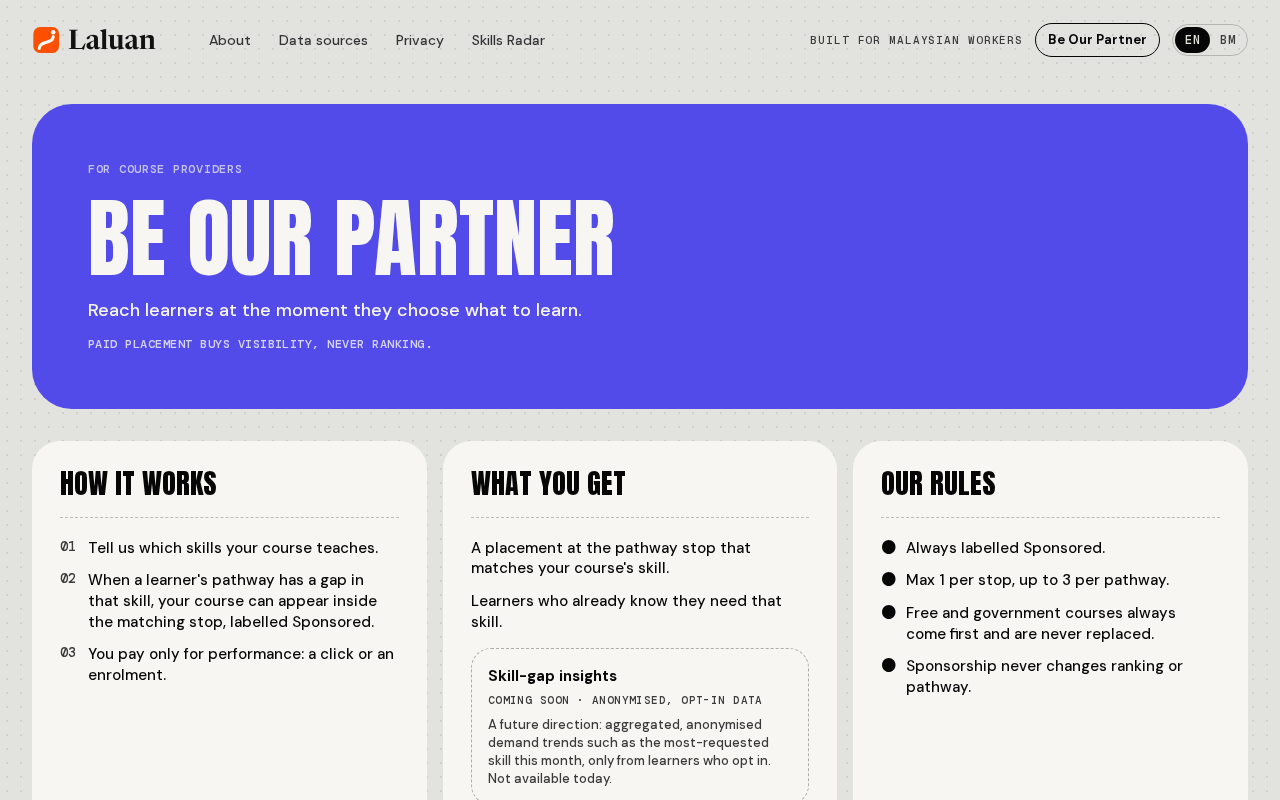
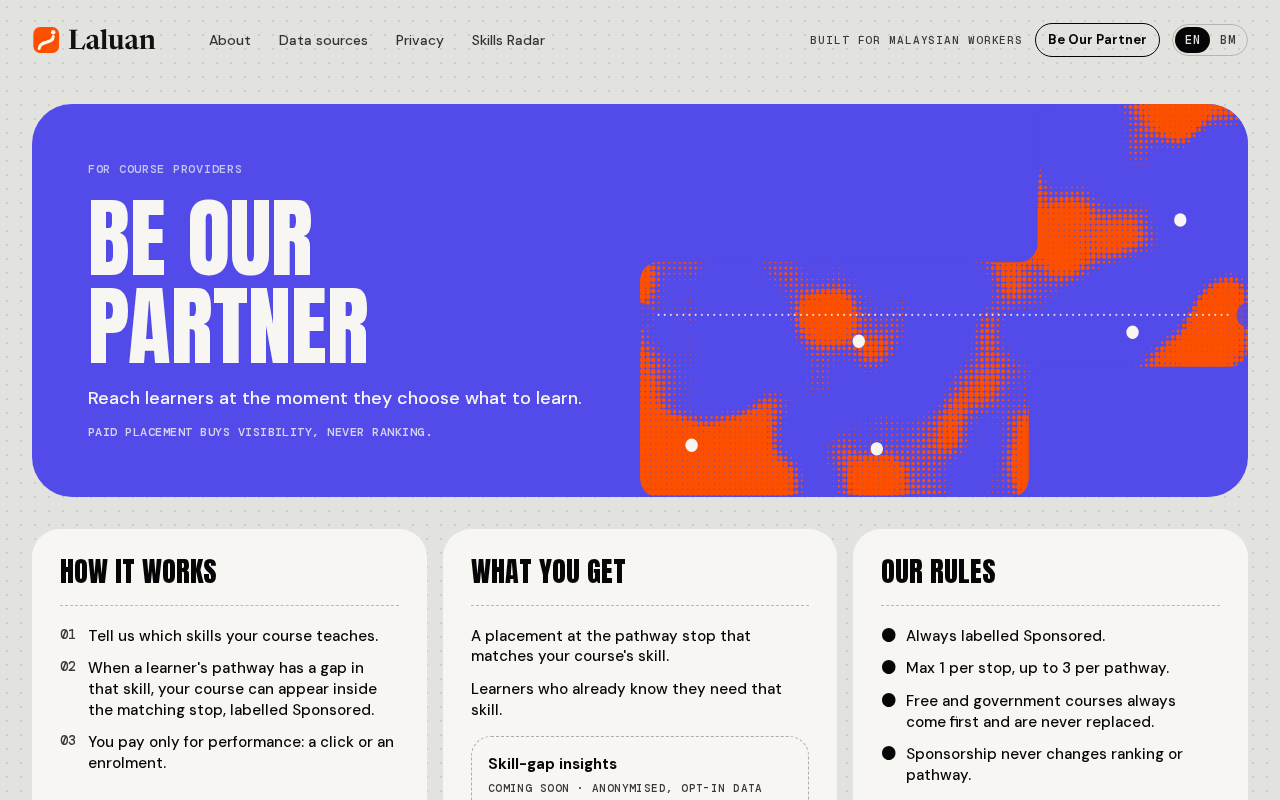
Partner: compact free-alternative line with stop jump, same-stop free line, hero halftone (Grace review)

diff --git a/src/components/pathway-view.tsx b/src/components/pathway-view.tsx
@@ -255,6 +255,14 @@ export function PathwayView({
   const doneCount = countDone(progress, planItemIds);
   const verifiedCount = verifiedItemIds(progress).filter((id) => planItemIds.includes(id)).length;
 
+  function jumpToStop(index: number) {
+    if (index >= VISIBLE_STOPS) setShowAll(true);
+    // Wait a frame so a just-expanded stop exists before scrolling to it.
+    requestAnimationFrame(() =>
+      requestAnimationFrame(() => document.getElementById(`stop-${index + 1}`)?.scrollIntoView({ behavior: "smooth", block: "start" })),
+    );
+  }
+
   function handleDelete() {
     if (roleId) saveProgress(roleId, {});
     resetFlow();
@@ -383,7 +391,7 @@ export function PathwayView({
                 const languagePill = "languages" in item ? courseLanguagePill(item.languages, studyLanguages) : null;
                 const sdgLink = step.sdgTarget ? role.sdg.find((link) => link.target === step.sdgTarget) : undefined;
                 return (
-                  <li key={step.itemId} className="relative grid grid-cols-[20px_1fr] gap-x-3 pb-4 last:pb-0 sm:grid-cols-[32px_1fr] sm:gap-x-5">
+                  <li key={step.itemId} id={`stop-${index + 1}`} className="relative scroll-mt-6 grid grid-cols-[20px_1fr] gap-x-3 pb-4 last:pb-0 sm:grid-cols-[32px_1fr] sm:gap-x-5">
                     <span
                       aria-hidden
                       className="relative z-10 mt-7 size-5 self-start sm:size-[30px] justify-self-center rounded-full bg-card ring-4 ring-ink"
@@ -486,15 +494,16 @@ export function PathwayView({
                         );
                       });
                       const refIndex = freeIndex >= 0 ? freeIndex : index;
-                      const refItem = resolveItem(plan.steps[refIndex]);
+                      const refStep = plan.steps[refIndex];
                       return (
                         <SponsoredRow
                           t={t}
                           pick={pick}
                           skillLabel={skillLabel}
                           refStop={refIndex + 1}
-                          refTitle={refItem ? ("title" in refItem ? refItem.title : refItem.name) : ""}
-                          refCost={refItem ? t(COST_LABEL_KEY[refItem.costType]) : ""}
+                          sameStop={refIndex === index}
+                          government={refStep.kind !== "course"}
+                          onJump={() => jumpToStop(refIndex)}
                         />
                       );
                     })()}
@@ -753,46 +762,61 @@ export function SponsoredRow({
   pick,
   skillLabel,
   refStop,
-  refTitle,
-  refCost,
+  sameStop,
+  government,
+  onJump,
 }: {
   t: ReturnType<typeof useT>["t"];
   pick: SponsoredPick;
   skillLabel: string;
+  /** 1-based stop holding the free/government course for this skill. */
   refStop: number;
-  refTitle: string;
-  refCost: string;
+  sameStop: boolean;
+  government: boolean;
+  onJump: () => void;
 }) {
   const [open, setOpen] = useState(false);
+  const stopLabel = t("sponsored.altStop", { n: String(refStop).padStart(2, "0") });
   return (
     <div className="col-start-2 mt-3 print:hidden" data-testid="sponsored-pick">
       <p className="text-[12px] leading-snug text-grey">{t("sponsored.subtitle")}</p>
-      <div className="mt-2 grid gap-3 sm:grid-cols-2">
-        <div className="rounded-[24px] bg-card p-5">
-          <p className="font-mono text-[11px] tracking-[0.04em] text-grey uppercase">{t("sponsored.freeFirst")} · {refCost}</p>
-          <p className="mt-2 text-[14px] leading-snug">
-            {t("sponsored.freeRef", { n: String(refStop).padStart(2, "0"), skill: skillLabel, title: refTitle })}
-          </p>
-        </div>
-        <article className="rounded-[24px] border-[1.5px] border-ink/15 bg-paper p-5" aria-label={t("sponsored.tag")}>
-          <span className="inline-block rounded-[6px] bg-sulfur px-2 py-0.5 font-data text-[12px] tracking-[0.06em] text-ink uppercase">
-            {t("sponsored.tag")}
-          </span>
-          <h4 className="mt-2.5 font-sans text-[17px] leading-tight font-bold">{pick.course.title}</h4>
-          <p className="mt-1.5 text-[13px] leading-snug text-grey">{t("sponsored.because", { skill: skillLabel })}</p>
-          <p className="mt-1.5 text-[13px] text-ink">{pick.course.provider}</p>
-          <p className="mt-0.5 font-data text-[12px] tracking-[0.04em] text-grey">{t("sponsored.price", { price: pick.course.examplePrice })}</p>
-          <button
-            type="button"
-            aria-expanded={open}
-            onClick={() => setOpen((v) => !v)}
-            className="mt-2.5 text-[12px] text-grey underline underline-offset-4 hover:text-ink"
-          >
-            {t("sponsored.why")}
-          </button>
-          {open && <p className="mt-1.5 text-[12px] leading-snug text-ink">{t("sponsored.whyBody")}</p>}
-        </article>
-      </div>
+      <p data-testid="sponsored-free-line" className="mt-2 font-mono text-[12px] tracking-[0.02em] text-ink">
+        {sameStop ? (
+          t(government ? "sponsored.sameGov" : "sponsored.sameFree")
+        ) : (
+          <>
+            {t("sponsored.altLine", { skill: skillLabel })}{" "}
+            <a
+              href={`#stop-${refStop}`}
+              onClick={(event) => {
+                event.preventDefault();
+                onJump();
+              }}
+              className="font-bold underline underline-offset-4 hover:text-grey"
+            >
+              {stopLabel}
+            </a>
+          </>
+        )}
+      </p>
+      <article className="mt-2 max-w-[560px] rounded-[24px] border-[1.5px] border-ink/15 bg-paper p-5" aria-label={t("sponsored.tag")}>
+        <span className="inline-block rounded-[6px] bg-sulfur px-2 py-0.5 font-data text-[12px] tracking-[0.06em] text-ink uppercase">
+          {t("sponsored.tag")}
+        </span>
+        <h4 className="mt-2.5 font-sans text-[17px] leading-tight font-bold">{pick.course.title}</h4>
+        <p className="mt-1.5 text-[13px] leading-snug text-grey">{t("sponsored.because", { skill: skillLabel })}</p>
+        <p className="mt-1.5 text-[13px] text-ink">{pick.course.provider}</p>
+        <p className="mt-0.5 font-data text-[12px] tracking-[0.04em] text-grey">{t("sponsored.price", { price: pick.course.examplePrice })}</p>
+        <button
+          type="button"
+          aria-expanded={open}
+          onClick={() => setOpen((v) => !v)}
+          className="mt-2.5 text-[12px] text-grey underline underline-offset-4 hover:text-ink"
+        >
+          {t("sponsored.why")}
+        </button>
+        {open && <p className="mt-1.5 text-[12px] leading-snug text-ink">{t("sponsored.whyBody")}</p>}
+      </article>
     </div>
   );
 }

diff --git a/src/components/sponsored-row.test.tsx b/src/components/sponsored-row.test.tsx
@@ -1,5 +1,5 @@
 import { fireEvent, render, screen } from "@testing-library/react";
-import { describe, expect, it } from "vitest";
+import { describe, expect, it, vi } from "vitest";
 import { translate } from "@/lib/i18n-messages";
 import { SPONSORED_COURSES } from "@/lib/sponsored";
 import { SponsoredRow } from "./pathway-view";
@@ -7,15 +7,26 @@ import { SponsoredRow } from "./pathway-view";
 describe("SponsoredRow", () => {
   it("renders the Sponsored label, reason and the 'Why am I seeing this?' disclosure, and is print-hidden", () => {
     const t = ((key: never, vars?: Record<string, string>) => translate("en", key, vars)) as never;
+    const onJump = vi.fn();
     const { container } = render(
-      <SponsoredRow t={t} pick={{ stopIndex: 3, skillId: "s", course: SPONSORED_COURSES[0] }} skillLabel="statistics" refStop={4} refTitle="Basic Statistics" refCost="Free" />,
+      <SponsoredRow t={t} pick={{ stopIndex: 3, skillId: "s", course: SPONSORED_COURSES[0] }} skillLabel="statistics" refStop={4} sameStop={false} government={false} onJump={onJump} />,
     );
     expect(screen.getByText("Sponsored")).toBeTruthy();
     expect(screen.getByText("Sponsored · shown because it matches your skill gap: statistics")).toBeTruthy();
     expect(screen.getByText("Doesn't change your recommendations. Free and government courses come first.")).toBeTruthy();
     expect(container.firstElementChild!.className).toContain("print:hidden");
     expect(screen.queryByText(/Paid placement\./)).toBeNull();
+    expect(screen.getByTestId("sponsored-free-line").textContent).toBe("Free alternative · also covers statistics: Stop 04");
+    expect(screen.queryByText(/Basic Statistics/)).toBeNull();
+    fireEvent.click(screen.getByRole("link", { name: "Stop 04" }));
+    expect(onJump).toHaveBeenCalledOnce();
     fireEvent.click(screen.getByRole("button", { name: "Why am I seeing this?" }));
     expect(screen.getByText("Paid placement. Matches a skill gap in your pathway. Does not change your ranking or pathway.")).toBeTruthy();
+  });
+
+  it("shows a single free-first line when the free course is the same stop", () => {
+    const t = ((key: never, vars?: Record<string, string>) => translate("en", key, vars)) as never;
+    render(<SponsoredRow t={t} pick={{ stopIndex: 1, skillId: "s", course: SPONSORED_COURSES[1] }} skillLabel="x" refStop={2} sameStop government={false} onJump={() => {}} />);
+    expect(screen.getByTestId("sponsored-free-line").textContent).toBe("Free / government first ✓ This stop's course is free");
   });
 });

diff --git a/src/components/partner-view.tsx b/src/components/partner-view.tsx
@@ -5,6 +5,7 @@
 
 import { useState, type FormEvent, type ReactNode } from "react";
 import { Perforation } from "@/components/caldera";
+import { LandingHeroCanvas } from "@/components/landing-hero-canvas";
 import { useT, type MessageKey } from "@/lib/i18n";
 import { cn } from "@/lib/utils";
 
@@ -71,11 +72,17 @@ export function PartnerView() {
 
   return (
     <main className="mx-auto max-w-[1440px] px-4 pt-6 pb-20 sm:px-6 md:px-8">
-      <section className="rounded-[40px] bg-plasma px-7 py-10 text-limestone md:px-14 md:py-14">
-        <p className="font-data text-[12px] tracking-[0.06em] text-limestone/70 uppercase">{t("partner.eyebrow")}</p>
-        <h1 className="mt-4 font-serif text-[clamp(40px,7vw,88px)] leading-[1] uppercase">{t("partner.title")}</h1>
-        <p className="mt-4 max-w-[640px] text-[18px] leading-snug">{t("partner.lede")}</p>
-        <p className="mt-3 font-data text-[12px] tracking-[0.04em] text-limestone/80 uppercase">{t("partner.principle")}</p>
+      <section className="grid overflow-hidden rounded-[40px] bg-plasma text-limestone md:grid-cols-2">
+        <div className="px-7 py-10 md:px-14 md:py-14">
+          <p className="font-data text-[12px] tracking-[0.06em] text-limestone/70 uppercase">{t("partner.eyebrow")}</p>
+          <h1 className="mt-4 font-serif text-[clamp(40px,7vw,88px)] leading-[1] uppercase">{t("partner.title")}</h1>
+          <p className="mt-4 max-w-[640px] text-[18px] leading-snug">{t("partner.lede")}</p>
+          <p className="mt-3 font-data text-[12px] tracking-[0.04em] text-limestone/80 uppercase">{t("partner.principle")}</p>
+        </div>
+        {/* Same halftone texture as the home hero, decorative only. */}
+        <div aria-hidden className="relative hidden min-h-[320px] md:block">
+          <LandingHeroCanvas className="absolute inset-0 size-full" />
+        </div>
       </section>
 
       <div className="mt-8 grid gap-4 md:grid-cols-3">

diff --git a/src/lib/i18n-messages.ts b/src/lib/i18n-messages.ts
@@ -815,8 +815,10 @@ export const EN = {
   "sponsored.price": "Example price: {price}",
   "sponsored.why": "Why am I seeing this?",
   "sponsored.whyBody": "Paid placement. Matches a skill gap in your pathway. Does not change your ranking or pathway.",
-  "sponsored.freeFirst": "Free / government first",
-  "sponsored.freeRef": "Stop {n} in your plan teaches {skill}: {title}",
+  "sponsored.sameFree": "Free / government first ✓ This stop's course is free",
+  "sponsored.sameGov": "Free / government first ✓ This stop's course is government-funded",
+  "sponsored.altLine": "Free alternative · also covers {skill}:",
+  "sponsored.altStop": "Stop {n}",
 } as const;
 
 export type MessageKey = keyof typeof EN;
@@ -1643,8 +1645,10 @@ export const MS: Record<MessageKey, string> = {
   "sponsored.price": "Harga contoh: {price}",
   "sponsored.why": "Kenapa saya melihat ini?",
   "sponsored.whyBody": "Penempatan berbayar. Sepadan dengan jurang kemahiran dalam laluan anda. Tidak mengubah kedudukan atau laluan anda.",
-  "sponsored.freeFirst": "Percuma / kerajaan dahulu",
-  "sponsored.freeRef": "Hentian {n} dalam pelan anda mengajar {skill}: {title}",
+  "sponsored.sameFree": "Percuma / kerajaan dahulu ✓ Kursus hentian ini percuma",
+  "sponsored.sameGov": "Percuma / kerajaan dahulu ✓ Kursus hentian ini dibiayai kerajaan",
+  "sponsored.altLine": "Alternatif percuma · turut merangkumi {skill}:",
+  "sponsored.altStop": "Hentian {n}",
 };
 
 const COUNT_WORDS: Record<SiteLocale, readonly string[]> = {
